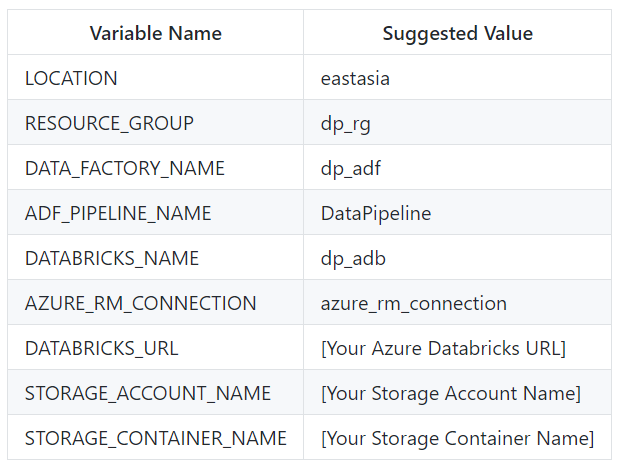
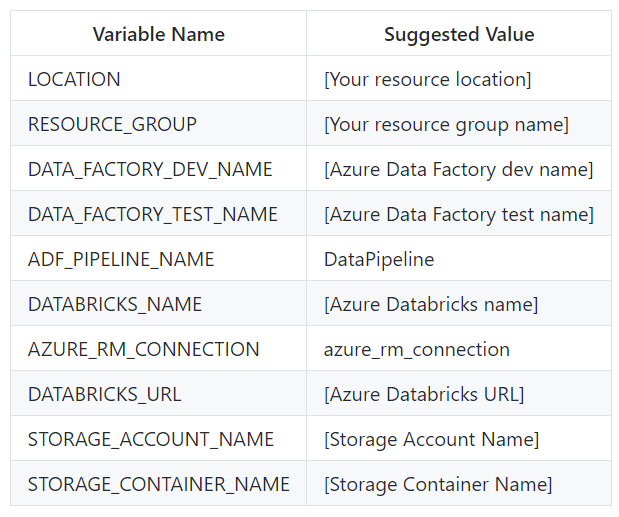
add more details into README.md

diff --git a/README.md b/README.md
@@ -129,7 +129,10 @@ If you don't have an Azure account, create one for free [here](https://azure.mic
     - Azure Blob Storage. In addition, create 2 containers with the names: 1) "rawdata", 2) "prepareddata"
     - Azure Databricks. Please refer to [this document](https://docs.microsoft.com/en-us/azure/databricks/security/secrets/secret-scopes) to create a secret scope named "testscope" within the Azure Databricks workspace.
     - Azure Key Vault
-    - Azure Data Factory 
+    - Create Azure Data Factory (ADF dev) by using the name of DATA_FACTORY_DEV_NAME
+    - Configure git for ADF dev with filling the 'root directory' to '/factorydata'
+    - Check the imported pipeline and verify the defined linked services in ADF dev
+    - Create Azure Data Factory (ADF test) by using the name of DATA_FACTORY_TEST_NAME and leave it empty
 - Create a Variable Group "keys-vg" contains the following variables linking to the secrets in the Azure Key Vault:
 
 | Variable Name               |
